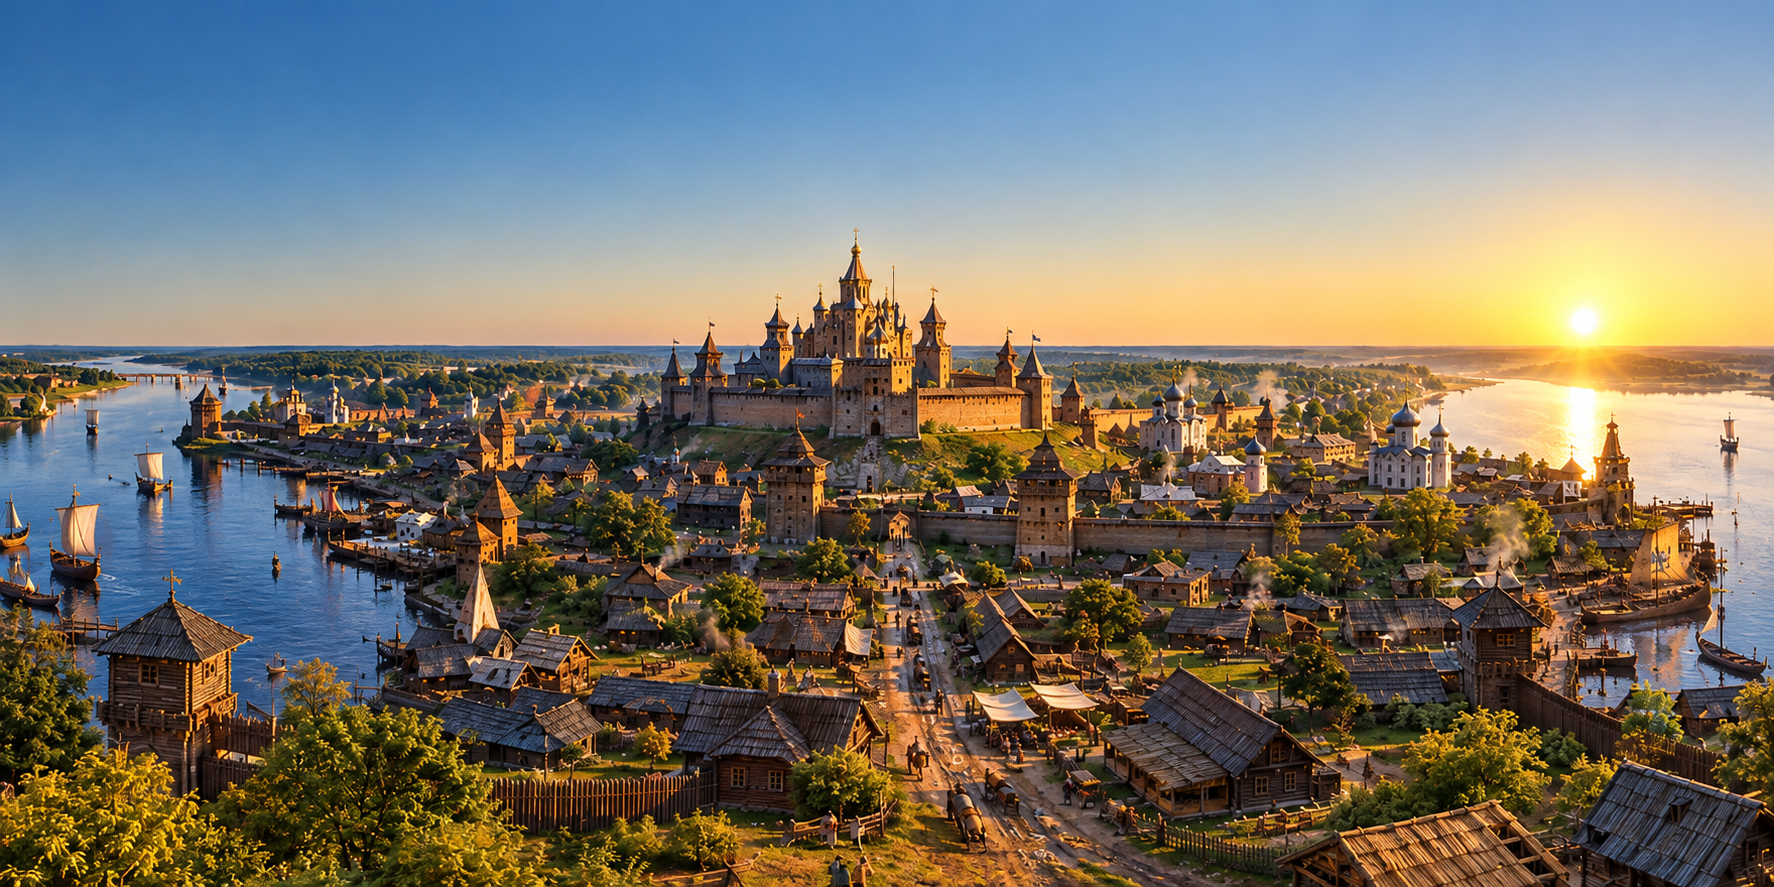
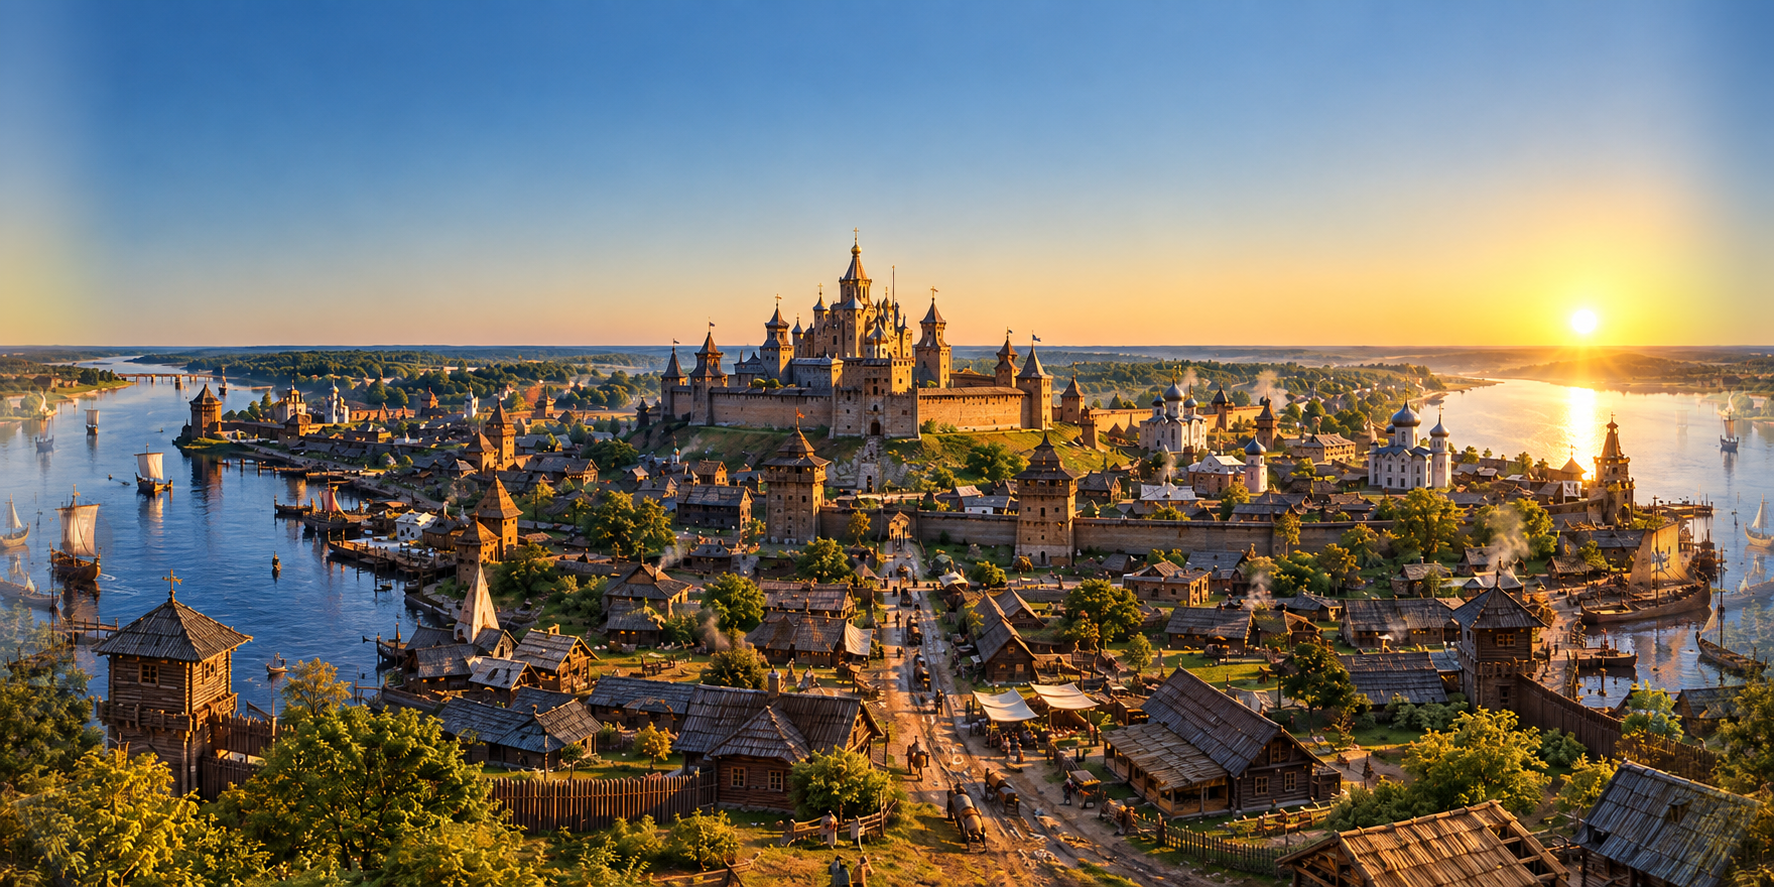
3.3
Correções nas bordas

Changed region(s): [[0.9301, 0.0, 1.0, 1.0], [0.0, 0.0, 0.062, 1.0]]

diff --git a/scripts.js b/scripts.js
@@ -536,6 +536,14 @@
         "radial-gradient(ellipse at 77% 10%, " + (isDay ? "rgba(255,238,180,.30)" : "rgba(110,140,210,.16)") + ", transparent 58%)," +
         "linear-gradient(180deg," + base.sky1 + " 0%," + base.sky2 + " 34%," + base.sky3 + " 67%," + base.ground + " 100%)"
       );
+      /* Safari/iOS paints its browser chrome from theme-color, while overscroll
+         and safe-area gaps expose the root canvas color. Keep both atmospheric. */
+      var edgeColor = base.sky3 || base.sky2 || base.sky1;
+      document.documentElement.style.setProperty("--weather-edge-color", edgeColor);
+      var browserThemeMeta = document.querySelector('meta[name="theme-color"]');
+      if (browserThemeMeta && browserThemeMeta.getAttribute("content") !== edgeColor) {
+        browserThemeMeta.setAttribute("content", edgeColor);
+      }
       document.documentElement.style.setProperty("--weather-overlay", overlay);
       document.documentElement.style.setProperty("--weather-ground", base.ground);
     }
@@ -933,7 +941,8 @@
       themeToggle.setAttribute("aria-checked", String(isLight));
     }
     if (themeColorMeta) {
-      themeColorMeta.setAttribute("content", isLight ? "#6ba3d6" : "#0b1226");
+      var atmosphericEdge = getComputedStyle(html).getPropertyValue("--weather-edge-color").trim();
+      themeColorMeta.setAttribute("content", atmosphericEdge || (isLight ? "#6ba3d6" : "#0b1226"));
     }
     var avatar = isLight ? AVATAR_LIGHT : AVATAR_DARK;
     if (avatarImg) {

diff --git a/skymap.js b/skymap.js
@@ -671,7 +671,7 @@
 
       if (baseB === null) { baseB = b; baseG = g; }
 
-      var dB = b - baseB;   /* delta beta  (frente/trás) */
+      var dB = angleDiff(b, baseB); /* delta beta (frente/trás), sem salto angular */
       var dG = g - baseG;   /* delta gamma (esq/dir)     */
 
       /* Priorizar bússola absoluta; usar a inclinação como fallback. */
@@ -680,13 +680,15 @@
       if (heading !== null && isFinite(heading)) rawAz = ((heading % 360) + 360) % 360;
       else rawAz = ((172.8 + dG * CFG.GYRO_SENS_AZ) % 360 + 360) % 360;
 
-      /* Elevação: inclinação frente/trás (invertida: frente=cima) */
-      rawEl = Math.max(-85, Math.min(85, dB * -CFG.GYRO_SENS_EL));
+      /* Elevação: seguir a inclinação da tela de forma natural.
+         Com a tela voltada para cima (aparelho apoiado na mesa), inclinar
+         a frente para baixo deve baixar a vista, e não elevá-la. */
+      rawEl = Math.max(-85, Math.min(85, dB * CFG.GYRO_SENS_EL));
 
       /* Paralaxe das camadas HTML */
       var norm = CFG.PARALLAX_MAX;
       rawParX = -dG / 45 * norm;
-      rawParY = -dB / 45 * norm * 0.6;
+      rawParY = dB / 45 * norm * 0.6;
 
       if (!hasGyro) {
         hasGyro = true;

diff --git a/style.css b/style.css
@@ -514,6 +514,7 @@ body {
 html {
   scroll-behavior: smooth;
   overflow-x: hidden;
+  background-color: var(--weather-edge-color, #0b1226);
 
   /* Controles da cena — o JS escreve --wind e --scroll-y */
   --wind: 1;
@@ -2387,7 +2388,10 @@ button:focus-visible {
 }
 
 /* A variável atmosférica tem precedência sobre a paleta fixa de tema. */
-body { background: var(--weather-body-bg, var(--body-bg)); }
+body {
+  background: var(--weather-body-bg, var(--body-bg));
+  background-color: var(--weather-edge-color, #0b1226);
+}
 
 
 /* -------------------------------------------------------------------------
